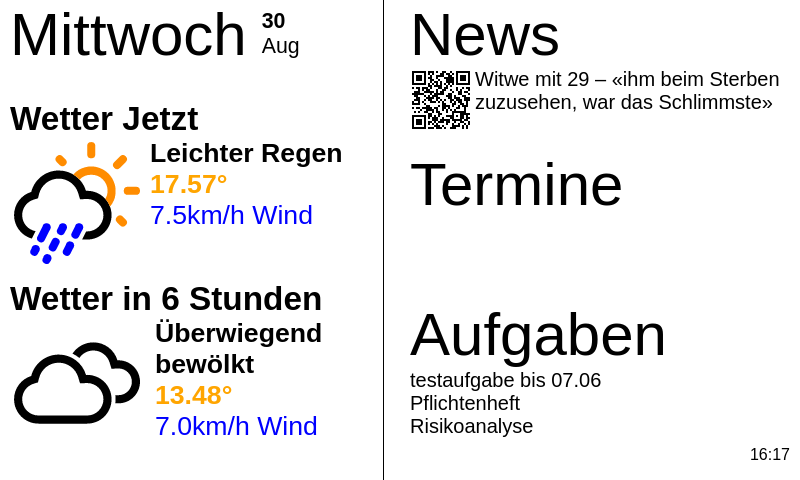
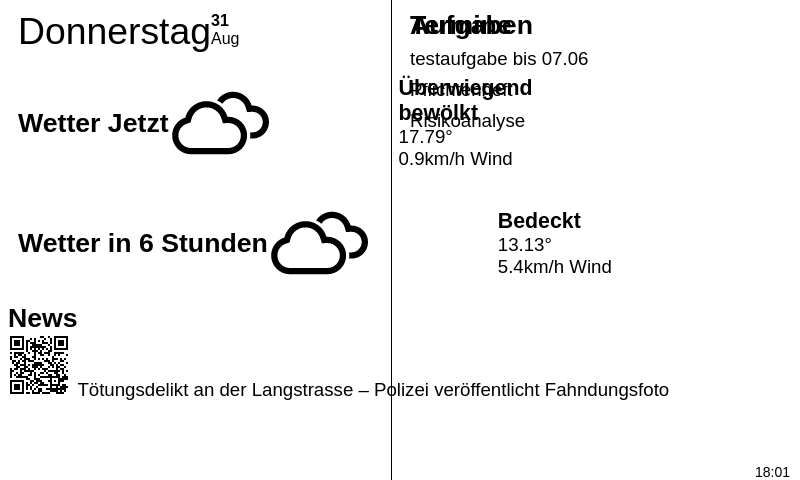
fixed css bugs and implemented installscript

diff --git a/ressources/styles.css b/ressources/styles.css
@@ -1,109 +1,127 @@
-        body {background-color: white;}
-        p {font: size 18px;}
-        * {font-family: "Rubik", sans-serif;}
-        #today-header {
-        position: absolute;
-        display: flex;
-        align-items: flex-end;
-        top: 0px;
-        left: 10px;
-        }
+body {background-color: white;}
+p {font: size 18px;}
+* {font-family: "Rubik", sans-serif;}
+#today-header {
+position: absolute;
+display: flex;
+align-items: flex-end;
+top: 0px;
+left: 10px;
+}
 
-        #today-date-weekday {
-        font-size: 45pt;
-        font-weight: lighter;
-        }
+#today-date-weekday {
+font-size: 40pt;
+font-weight: lighter;
+}
 
-        #today-date-daymonth {
-        margin-left: 15px;
-        margin-bottom: 10px;
-        font-size: 16pt;
-        }
+#today-date-daymonth {
+margin-left: 15px;
+margin-bottom: 10px;
+font-size: 16pt;
+}
 
-        #today-date-day {
-        font-weight: bold;
-        }
-        #today-icon {
-        width: 130px;
-        height: 130px;
-        float: left;
-        margin-right: 10px;
-        }
-        #weather_title {
+#today-date-day {
+font-weight: bold;
+}
+#today-icon {
+width: 130px;
+height: 130px;
+float: left;
+}
+#weather_title {
+font-size: 25pt;
+font-weight: bold;
+margin-top: 5px;
+margin-bottom: 5px;
+}
+#title {
+font-size: 25pt;
+font-weight: bold;
+}
+#weather_now {
+position: absolute;
+top: 100px;
+left: 10px;
+}
+#weather_forecast {
+position: absolute;
+top: 280px;
+left: 10px;
+}
+#weather_text {
+margin-left: 140px;
+}
+#weather-description{
+font-size: 20pt;
+font-weight: bold;
+}
+#weather-temp{
+font-size: 20pt;
+font-weight: bold;
+color:orange;
+}
+#weather-wind{
+font-size: 20pt;
+color:blue;
+}
+#weather-tempminmax{
+font-size: 20pt;
+}
+#news {
+font-size: 25pt;
+font-weight: bold;
+position: absolute;
+top: 0px;
+left: 410px;
+width: 380px;
+}
+#news-text {
+position: absolute;
+font-size: 15pt;
+top: 68px;
+left: 65px;
+font-weight: normal;
+margin-top: 0px;
+margin-bottom: 0px;
+}
+.vl {
+border-left: 1px solid black;
+height: 480px;
+position: absolute;
+left: 49%;
+margin-left: -1px;
+top: 0;
+}
+#calendar {
         font-size: 25pt;
         font-weight: bold;
-        margin-top: 5px;
-        margin-bottom: 5px;
-        }
-        #weather_now {
         position: absolute;
-        top: 100px;
-        left: 10px;
-        }
-        #weather_forecast {
-        position: absolute;
-        top: 280px;
-        left: 10px;
-        }
-        #weather_text {
-                float: right;
-        }
-        #weather-description{
-        font-size: 20pt;
-        font-weight: bold;
-        }
-        #weather-temp{
-        font-size: 20pt;
-        font-weight: bold;
-        color:orange;
-        }
-        #weather-wind{
-        font-size: 20pt;
-        color:blue;
-        }
-        #weather-tempminmax{
-        font-size: 20pt;
-        }
-        #quote {
-        position: absolute;
-        top: 0px;
+        top: 150px;
         left: 410px;
         width: 380px;
-        }
-        #quote-text {
-        position: absolute;
+}
+#calendar-text {
         font-size: 15pt;
-        top: 68px;
-        left: 65px;
-        }
-        .vl {
-        border-left: 1px solid black;
-        height: 480px;
+        font-weight: normal;
+        margin-top: 0px;
+        margin-bottom: 0px;
+}
+#tasks {
+        font-size: 25pt;
+        font-weight: bold;
         position: absolute;
-        left: 48%;
-        margin-left: -1px;
-        top: 0;
-        }
-        #calendar {
-                position: absolute;
-                top: 150px;
-                left: 410px;
-                width: 380px;
-        }
-        #calendar-text {
-                font-size: 15pt;
-        }
-        #tasks {
-                position: absolute;
-                top: 300px;
-                left: 410px;
-                width: 380px;
-        }
-        #task-text {
-                font-size: 15pt;
-        }
-        #timestamp {
-                position: absolute;
-                bottom: 0px;
-                right: 10px;
-        }
+        top: 300px;
+        left: 410px;
+        width: 380px;
+}
+#task-text {
+        font-size: 15pt;
+        font-weight: normal;
+        margin-top: 0px;
+        margin-bottom: 0px;
+}
+#timestamp {
+        position: absolute;
+        bottom: 0px;
+        right: 10px;
+}

diff --git a/dashboard.html b/dashboard.html
@@ -8,49 +8,51 @@
     </head>
     <body>
         <div id="today-header">
-            <span id="today-date-weekday"></i>Mittwoch</span>
+            <span id="today-date-weekday"></i>Donnerstag</span>
             <span id="today-date-daymonth">
               <div id="today-date-day">
-                30
+                31
               </div>
               Aug
             </span>
           </div>   
         <div id="weather_now">
           <span id="weather_title">Wetter Jetzt<br/></span>  
+          <img id="today-icon" src=icons/04d.svg alt="04d"><br/>
           <div id="weather_text">
-            <span id="weather-description">Leichter Regen<br/></span>
-            <span id="weather-temp">17.57°<br/></span>
-            <span id="weather-wind">7.5km/h Wind<br/></span>
+            <span id="weather-description">Überwiegend<br/>bewölkt<br/></span>
+            <span id="weather-temp">17.79°<br/></span>
+            <span id="weather-wind">0.9km/h Wind<br/></span>
           </div>
-          <img id="today-icon" src=icons/10d.svg alt="10d"><br/>
+          
         </div>
         <div id="weather_forecast">
           <span id="weather_title">Wetter in 6 Stunden<br/></span>  
-          <div id="weather_text">
-            <span id="weather-description">Überwiegend<br/>bewölkt<br/></span>
-            <span id="weather-temp">13.48°<br/></span>
-            <span id="weather-wind">7.0km/h Wind<br/></span>
-          </div>
           <img id="today-icon" src=icons/04n.svg alt="04n"><br/>
+          <div id="weather_text">
+            <span id="weather-description">Bedeckt<br/></span>
+            <span id="weather-temp">13.13°<br/></span>
+            <span id="weather-wind">5.4km/h Wind<br/></span>          
+          </div>
+          
         </div>
 
         <div class="vl"></div>
 
-        <div id="quote">
-          <span id="today-date-weekday"></i>News<br/></span>
+        <div id="news">
+          <span id="title"></i>News<br/></span>
           <img id="news-qr" src="ressources/newsqr.png" alt="newsqr">
-          <span id="quote-text">Witwe mit 29 – «ihm beim Sterben zuzusehen, war das Schlimmste»<br/></span> 
+          <span id="news-text">Tötungsdelikt an der Langstrasse – Polizei veröffentlicht Fahndungsfoto<br/></span> 
         </div>
         <div id="calendar">
-          <span id="today-date-weekday"></i>Termine<br/></span>
+          <span id="title"></i>Termine<br/></span>
           <span id="calendar-text"><br/></span>
         </div>
         <div id="tasks">
-          <span id="today-date-weekday"></i>Aufgaben<br/></span>
+          <span id="title"></i>Aufgaben<br/></span>
           <span id="task-text">testaufgabe bis 07.06<br/>Pflichtenheft<br/>Risikoanalyse<br/><br/></span>
         </div>
         <div id="timestamp">
-          <p>16:17</p>
+          <p>18:01</p>
     </body>
 </html>

diff --git a/ressources/dashboard_template.html b/ressources/dashboard_template.html
@@ -18,36 +18,38 @@
           </div>   
         <div id="weather_now">
           <span id="weather_title">Wetter Jetzt<br/></span>  
+          <img id="today-icon" src=icons/NOW_ICON.svg alt="NOW_ICON"><br/>
           <div id="weather_text">
             <span id="weather-description">NOW_DESC<br/></span>
             <span id="weather-temp">NOW_NOWTEMP°<br/></span>
             <span id="weather-wind">NOW_WINDkm/h Wind<br/></span>
           </div>
-          <img id="today-icon" src=icons/NOW_ICON.svg alt="NOW_ICON"><br/>
+          
         </div>
         <div id="weather_forecast">
           <span id="weather_title">Wetter in 6 Stunden<br/></span>  
+          <img id="today-icon" src=icons/FORECAST_ICON.svg alt="FORECAST_ICON"><br/>
           <div id="weather_text">
             <span id="weather-description">FORECAST_DESC<br/></span>
             <span id="weather-temp">FORECAST_NOWTEMP°<br/></span>
-            <span id="weather-wind">FORECAST_WINDkm/h Wind<br/></span>
+            <span id="weather-wind">FORECAST_WINDkm/h Wind<br/></span>          
           </div>
-          <img id="today-icon" src=icons/FORECAST_ICON.svg alt="FORECAST_ICON"><br/>
+          
         </div>
 
         <div class="vl"></div>
 
-        <div id="quote">
-          <span id="today-date-weekday"></i>News<br/></span>
+        <div id="news">
+          <span id="title"></i>News<br/></span>
           <img id="news-qr" src="ressources/newsqr.png" alt="newsqr">
-          <span id="quote-text">NEWS<br/></span> 
+          <span id="news-text">NEWS<br/></span> 
         </div>
         <div id="calendar">
-          <span id="today-date-weekday"></i>Termine<br/></span>
+          <span id="title"></i>Termine<br/></span>
           <span id="calendar-text">CALENDAR_EVENTS<br/></span>
         </div>
         <div id="tasks">
-          <span id="today-date-weekday"></i>Aufgaben<br/></span>
+          <span id="title"></i>Aufgaben<br/></span>
           <span id="task-text">TASKS<br/></span>
         </div>
         <div id="timestamp">

diff --git a/generate_dashboard.py b/generate_dashboard.py
@@ -106,10 +106,11 @@ def refresh_access_token(client_id, client_secret, token_path, token_filename, a
 def get_calendar():
     calendar_events = ""
     # Read Microsoft 365 access token from file 
-    with open(tokenfilepath, 'r') as f:
-        access_token = f.read().strip()
-
-    if access_token == "":
+    try:
+        with open(tokenfilename, 'r') as f:
+            access_token = f.read().strip()
+    except FileNotFoundError:
+        access_token = None
         print("No token found. Please run get_token.py first.")
         exit()
 
@@ -169,10 +170,11 @@ def get_calendar():
 # Function to get the tasks
 def get_tasks():
     # Read Microsoft 365 access token from file
-    with open(tokenfilepath, 'r') as f:
-        access_token = f.read().strip()
-
-    if access_token == "":
+    try:
+        with open(tokenfilename, 'r') as f:
+            access_token = f.read().strip()
+    except FileNotFoundError:
+        access_token = None
         print("No token found. Please run get_token.py first.")
         exit()
 

diff --git a/get_token.py b/get_token.py
@@ -2,7 +2,6 @@
 
 from O365 import Account, MSOffice365Protocol
 import config
-import msal
 
 credentials = (config.CLIENT_ID, config.SECRET_ID)
 protocol = MSOffice365Protocol(default_resource='common')
